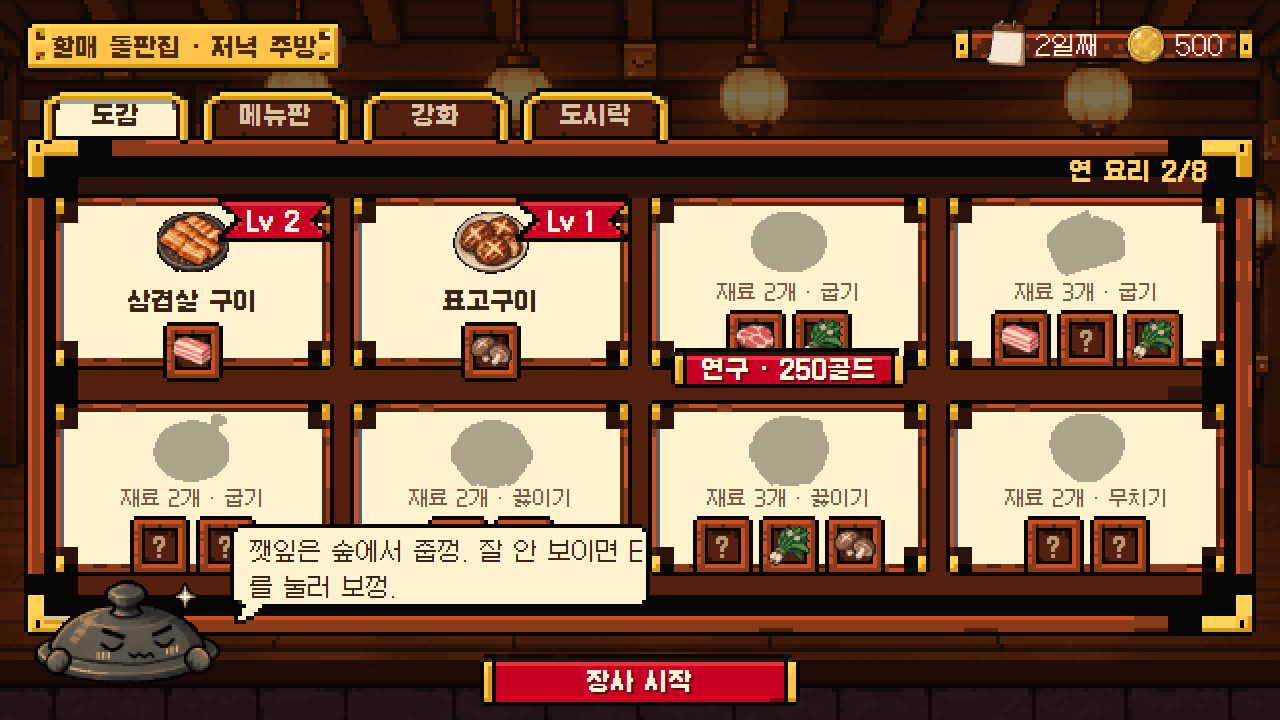
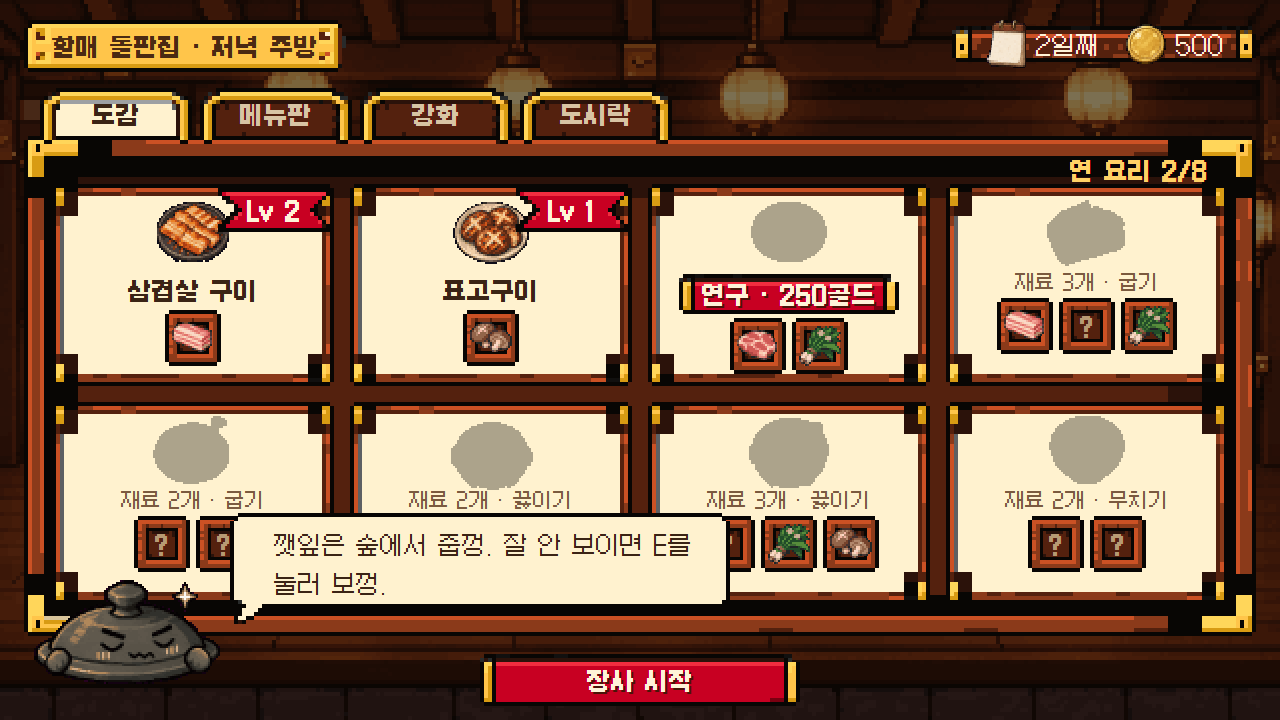
art: cookbook mock-up keeps the research button inside its card; roomier lid bubble

Changed region(s): [[0.0312, 0.2444, 0.9688, 0.6111], [0.0312, 0.6722, 0.9688, 0.8556], [0.9375, 0.5806, 0.9688, 0.6111]]

diff --git a/art-src/mockups/kitchen-cookbook.html b/art-src/mockups/kitchen-cookbook.html
@@ -35,8 +35,8 @@
   .panel { position: absolute; left: 24px; top: 136px; width: 1232px; height: 500px; padding: 8px;
     border-width: calc(5 * var(--k)); border-image: url("../ui-kit-pixel/out/panel.png") 5 fill / calc(5 * var(--k)) stretch; }
   .count { position: absolute; right: 28px; top: -2px; color: var(--brass); font-weight: 700; }
-  .grid { display: grid; grid-template-columns: repeat(4, 1fr); column-gap: 16px; row-gap: 30px; margin-top: 30px; }
-  .card { position: relative; height: 176px; display: flex; flex-direction: column; align-items: center; padding: 0 4px;
+  .grid { display: grid; grid-template-columns: repeat(4, 1fr); gap: 16px; margin-top: 20px; }
+  .card { position: relative; height: 202px; display: flex; flex-direction: column; align-items: center; padding: 0 4px;
     border-width: calc(3 * var(--k)); border-image: url("../ui-kit-pixel/out/card.png") 3 fill / calc(3 * var(--k)) stretch; }
   .card > * { margin-top: -4px; }
   .dish { width: 84px; height: 80px; }
@@ -48,8 +48,8 @@
     border-width: calc(3 * var(--k)) calc(6 * var(--k)); border-image: url("../ui-kit-pixel/out/ribbon.png") 3 6 fill / calc(3 * var(--k)) calc(6 * var(--k)) stretch;
     color: var(--cream); font-weight: 700; margin: 0; }
   .lv span { margin: -12px -24px; }
-  .slots { display: flex; gap: 6px; margin-top: 6px; }
-  .slot { width: 60px; height: 60px; display: flex; align-items: center; justify-content: center; color: #b89a74; font-weight: 700;
+  .slots { display: flex; gap: 6px; margin-top: 4px; }
+  .slot { width: 56px; height: 56px; display: flex; align-items: center; justify-content: center; color: #b89a74; font-weight: 700;
     border-width: calc(3 * var(--k)); border-image: url("../ui-kit-pixel/out/slot.png") 3 fill / calc(3 * var(--k)) stretch; }
   .slot img { width: 42px; margin: -12px; }
   .slot span { margin: -12px; }
@@ -57,13 +57,13 @@
     border-width: calc(3 * var(--k)) calc(4 * var(--k)); border-image: url("../ui-kit-pixel/out/btn_normal.png") 3 4 fill / calc(3 * var(--k)) calc(4 * var(--k)) stretch;
     text-shadow: 2px 2px 0 #4a1408; }
   .btn span { margin: -12px -8px; }
-  .card .btn { position: absolute; bottom: -30px; width: 236px; margin: 0; }
+  .card .btn { width: 220px; margin-top: 2px; }
   .ready { position: absolute; left: 50%; bottom: 14px; transform: translateX(-50%); width: 320px; height: 52px; font-size: 24px; }
   .lid { position: absolute; left: 6px; bottom: -6px; width: 240px; z-index: 3; }
-  .say { position: absolute; left: 230px; bottom: 96px; width: 420px; min-height: 80px; padding: 4px 8px; z-index: 3;
+  .say { position: absolute; left: 230px; bottom: 96px; width: 500px; min-height: 84px; padding: 6px 20px 2px 12px; z-index: 3;
     border-width: calc(3 * var(--k)) calc(3 * var(--k)) calc(7 * var(--k)) calc(8 * var(--k));
     border-image: url("../ui-kit-pixel/out/bubble.png") 3 3 7 8 fill / calc(3 * var(--k)) calc(3 * var(--k)) calc(7 * var(--k)) calc(8 * var(--k)) stretch; }
-  .say span { display: block; margin: -8px -16px -12px -20px; line-height: 1.5; }
+  .say span { display: block; margin: -6px 0 -8px; line-height: 1.6; }
 </style>
 </head>
 <body>
@@ -101,12 +101,11 @@
       </div>
       <div class="card slice">
         <img class="dish sil" src="../../art/test/dishes/garlic_neck.png" alt="">
-        <div class="shape">재료 2개 · 굽기</div>
+        <div class="btn slice"><span>연구 · 250골드</span></div>
         <div class="slots">
           <div class="slot slice"><img src="../../art/test/items/icon_boar_neck.png" alt=""></div>
           <div class="slot slice"><img src="../../art/test/items/icon_wild_garlic.png" alt=""></div>
         </div>
-        <div class="btn slice"><span>연구 · 250골드</span></div>
       </div>
       <div class="card slice">
         <img class="dish sil" src="../../art/test/dishes/belly_ssam.png" alt="">
